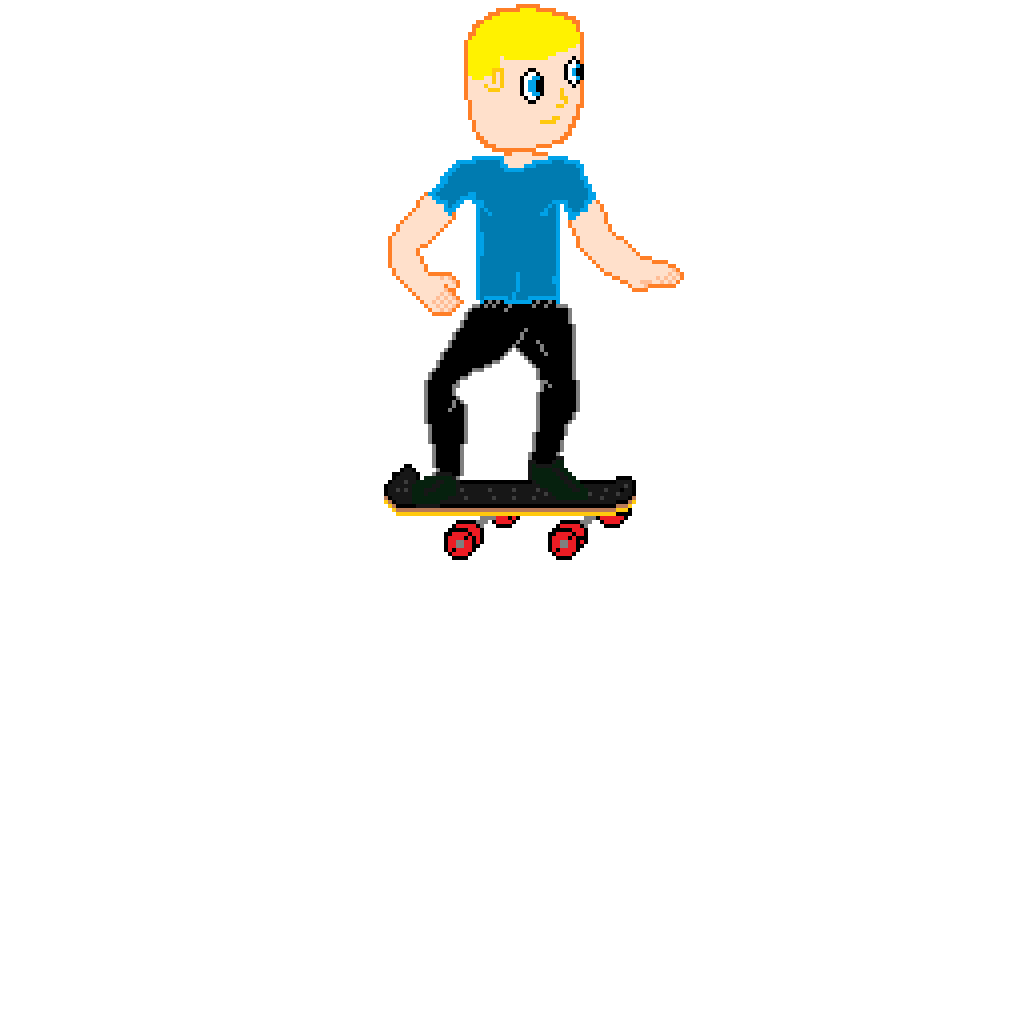
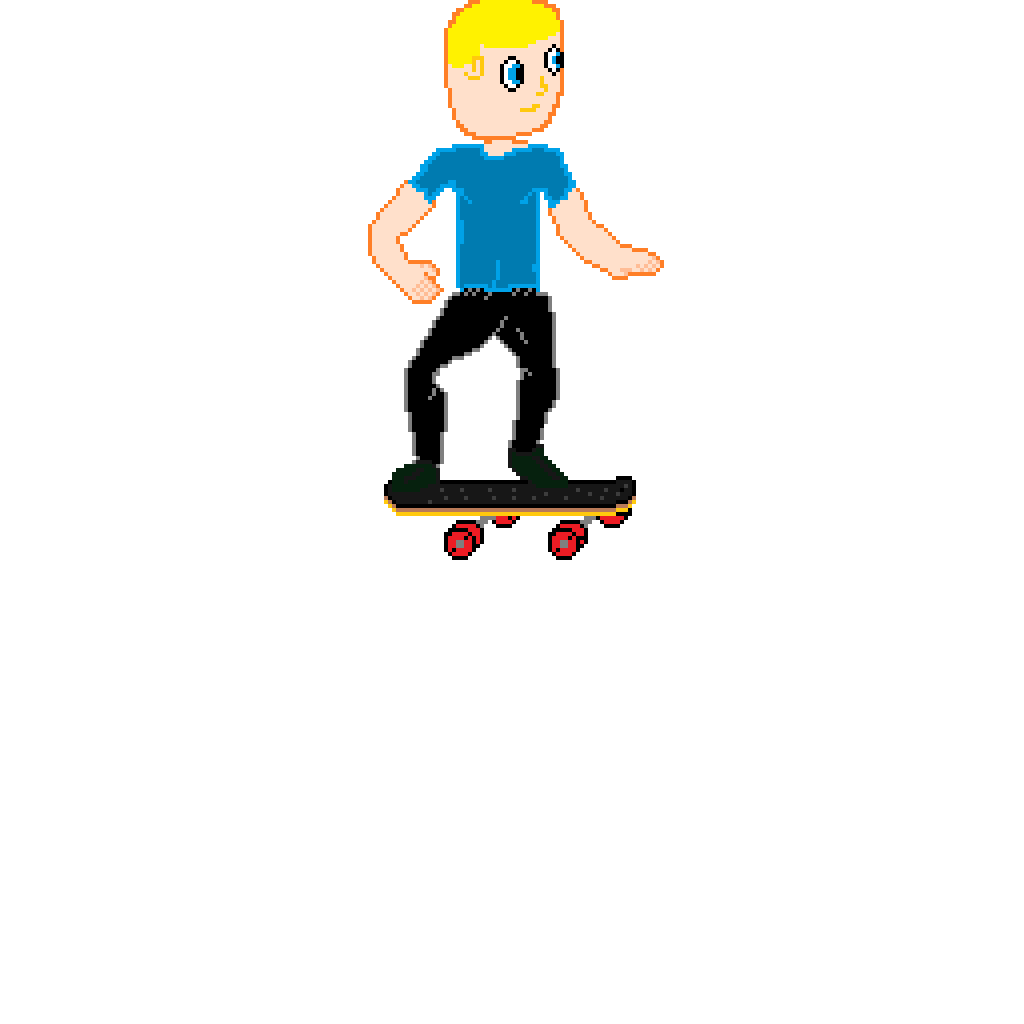
AnimationChanges

Changed region(s): [[0.3438, 0.0, 0.6875, 0.4688]]

diff --git a/src/Types/Personaje.ts b/src/Types/Personaje.ts
@@ -9,6 +9,8 @@ export class Skater extends PContainer implements IHitbox{
     AS_Run: AnimatedSprite;
     AS_Jump: AnimatedSprite;
     AS_Grind: AnimatedSprite;
+    AS_Fall: AnimatedSprite;
+    AS_Flip: AnimatedSprite;
 
     centered: boolean;
     hitbox:Graphics;
@@ -46,9 +48,25 @@ export class Skater extends PContainer implements IHitbox{
             Texture.from("SkateAnim10"),
         ], true);
 
+        this.AS_Fall = new AnimatedSprite([
+            Texture.from("SkateAnim12"),
+            Texture.from("SkateAnim13"),
+            Texture.from("SkateAnim13"),
+            Texture.from("SkateAnim13"),
+            Texture.from("SkateAnim13"),
+        ], true);
+
+        this.AS_Flip = new AnimatedSprite([
+            Texture.from("SkateAnim14"),
+            Texture.from("SkateAnim15"),
+            Texture.from("SkateAnim16"),
+            Texture.from("SkateAnim17"),
+            Texture.from("SkateAnim18"),
+        ], true);
+
         this.hitbox = new Graphics();
         this.hitbox.beginFill(0xFF00FF, SceneManager.showHitBox);
-        this.hitbox.drawRect(0,0,64,128);
+        this.hitbox.drawRect(8,96,64,32);
         this.hitbox.endFill();
         this.hitbox.x = -32;
         this.hitbox.y = -48;
@@ -74,6 +92,21 @@ export class Skater extends PContainer implements IHitbox{
         this.AS_Grind.animationSpeed = 0.25;
         this.AS_Grind.currentFrame = 0;
 
+        this.AS_Flip.loop = false;
+        this.AS_Flip.scale.set(0.25);
+        this.AS_Flip.anchor.x = 0.5;
+        this.AS_Flip.position.x = 5;
+        this.AS_Flip.position.y = -40;
+        this.AS_Flip.animationSpeed = 0.5;
+        //this.AS_Flip.currentFrame = 0;
+
+        this.AS_Fall.loop = false;
+        this.AS_Fall.scale.set(0.25);
+        this.AS_Fall.anchor.x = 0.5;
+        this.AS_Fall.position.x = 5;
+        this.AS_Fall.position.y = -40;
+        this.AS_Fall.animationSpeed = 0.05;
+
         this.addChild(this.AS_Run);
         this.addChild(this.hitbox);
 
@@ -84,6 +117,7 @@ export class Skater extends PContainer implements IHitbox{
         Keyboard.down.on("KeyD", this.onKeyD, this);
         Keyboard.up.on("KeyD", this.Reset, this);
         Keyboard.down.on("KeyE", this.onKeyE, this);
+        Keyboard.down.on("KeyQ", this.onKeyQ, this);
 
         //Atributos de juego init
         this.Score = score;
@@ -93,7 +127,7 @@ export class Skater extends PContainer implements IHitbox{
     public override update(deltaTime : number, _deltaFrame : number): void {        
         super.update(deltaTime, _deltaFrame);
 
-        console.log(this.Score.Timer);
+        //console.log(this.Score.Timer);
 
         //Atributos de juego update
         this.Score.Timer += deltaTime;
@@ -115,7 +149,6 @@ export class Skater extends PContainer implements IHitbox{
         if (this.position.x > SceneManager.WX || this.position.x < 16){
 
             if (this.position.x < 16) this.position.x = 17;
-
             this.centered = true;
         }
 
@@ -154,20 +187,46 @@ export class Skater extends PContainer implements IHitbox{
         this.AS_Grind.play();
         this.AS_Jump.play();
 
+        if (this.onFall){
+            this.speed.x = -0.1 ;
+            this.worldspeed = 0.3;
+            this.centered = false;
+            if (this.AS_Fall.currentFrame == 4){
+                this.reset = true;
+                this.onFall = false;
+            }
+            this.onGround = true;
+            this.removeChild(this.AS_Run);
+            this.removeChild(this.AS_Jump);
+            this.removeChild(this.AS_Grind);
+            this.removeChild(this.AS_Flip);
+            this.addChild(this.AS_Fall);
+            this.AS_Fall.play();
+        }
+        
+        if (this.onFlip){
+            
+            this.AS_Flip.play();
+            if (this.AS_Flip.currentFrame == 2 ){
+                this.onFlip = false;
+            }
+        }
+
         if ( this.speed.y > 0 && (this.JumpIn || this.JumpOut )){ //fix?
             this.AS_Jump.currentFrame = 1;
         }
 
-
-        if (this.onGround){ //Run
+        if (this.onGround && !this.onFall){ //Run
             this.removeChild(this.AS_Jump);
             this.removeChild(this.AS_Grind);
+            this.removeChild(this.AS_Flip);
             this.addChild(this.AS_Run);
         }
 
-        if (this.onPlat && !this.onGrind){ //RunOnPlat
+        if (this.onPlat && !this.onGrind && !this.onFall){ //RunOnPlat
             this.removeChild(this.AS_Jump);
             this.removeChild(this.AS_Grind);
+            this.removeChild(this.AS_Flip);
             this.addChild(this.AS_Run);
             this.scale.set(this.minScale);
         }
@@ -193,7 +252,7 @@ export class Skater extends PContainer implements IHitbox{
 
     private onKeyE():void{
 
-        if ( this.JumpIn || this.JumpOut){
+        if (this.JumpIn || this.JumpOut || !this.onFlip){
             //Physics
             this.speed.y = 0;
 
@@ -205,12 +264,23 @@ export class Skater extends PContainer implements IHitbox{
             //Animations
             this.removeChild(this.AS_Run);
             this.removeChild(this.AS_Jump);
+            this.removeChild(this.AS_Flip);
             this.addChild(this.AS_Grind);
+        }
+    }
+    private onKeyQ():void{
+        if (this.JumpIn || this.JumpOut){
+            this.onFlip = true;
+            this.AS_Flip.currentFrame = 0;
+            this.removeChild(this.AS_Run);
+            this.removeChild(this.AS_Jump);
+            this.removeChild(this.AS_Grind);
+            this.addChild(this.AS_Flip);
         }
     }
 
     private onJump():void{
-        if (this.onGround){
+        if (this.onGround && !this.onFlip){
             //Physics
             this.speed.y = -this.JumpSpeed - Math.abs((this.speed.x) * 0.5);
             this.position.y -= 5;
@@ -223,12 +293,13 @@ export class Skater extends PContainer implements IHitbox{
             this.AS_Jump.currentFrame = 0;
             this.removeChild(this.AS_Run);
             this.removeChild(this.AS_Grind);
+            this.removeChild(this.AS_Flip);
             this.addChild(this.AS_Jump);
 
             //Score
             this.Score.LastTrick = 1;
         }
-        if (this.onPlat){
+        if (this.onPlat && !this.onFlip){
             //Physics
             this.speed.y = -this.JumpSpeed - Math.abs((this.speed.x) * 0.5);
             this.position.y -= 5;
@@ -242,6 +313,7 @@ export class Skater extends PContainer implements IHitbox{
             this.AS_Jump.currentFrame = 0;
             this.removeChild(this.AS_Run);
             this.removeChild(this.AS_Grind);
+            this.removeChild(this.AS_Flip);
             this.addChild(this.AS_Jump);
 
             //Score
@@ -251,7 +323,7 @@ export class Skater extends PContainer implements IHitbox{
 
     public checkCollision(c:any, b:any):void{
         if ( c != null){
-            if (b.tipo != 2 && (this.JumpIn || this.JumpOut || this.onGrind || !this.onPlat)){
+            if (b.tipo != 2 && (this.JumpIn || this.JumpOut || this.onGrind || !this.onPlat || !this.onFall)){
                 if (this.speed.y > 0 && this.position.y < (b.position.y + c.height)){
                     //Physics
                     this.speed.y = 0;
@@ -263,10 +335,10 @@ export class Skater extends PContainer implements IHitbox{
                 }
             }
             if (b.tipo == 2 && !this.onGround){
-                this.reset = true;
+                this.onFall = true;
             }
             if (b.tipo == 3){
-                this.reset = true;
+                this.onFall = true;
             }
         }
     }

diff --git a/src/Scenes/MainScene.ts b/src/Scenes/MainScene.ts
@@ -2,7 +2,7 @@ import { Container, Texture, TilingSprite } from "pixi.js";
 import { Emitter, upgradeConfig } from "@pixi/particle-emitter";
 import { checkCollision } from "../Types/Interfaces/IHitbox";
 import { SceneBase } from "./SceneBase";
-import { SceneManager, music } from "./SceneManager";
+import { SceneManager } from "./SceneManager";
 import { Obstaculo } from "../Types/MapMaker";
 import { Score, Skater } from "../Types/Personaje";
 import { Banco } from "../Types/Banco";
@@ -12,9 +12,7 @@ import { BolaT } from "../Types/BolaTransito";
 import { Bicicletero } from "../Types/Bicicletero";
 
 import * as mosParticle from "../mosquitos.json";
-
-
-
+import { Sound } from "@pixi/sound";
 
 export class MainScene extends SceneBase{
 
@@ -33,9 +31,12 @@ export class MainScene extends SceneBase{
     contMoscos: Container;
     bancos: Obstaculo[];
     score: Score;
+    music: Sound;
 
-    constructor(score:Score){
+    constructor(score:Score, music:Sound){
         super();
+
+        this.music = music;
 
         this.score = score;
         //Constantes
@@ -126,26 +127,28 @@ export class MainScene extends SceneBase{
 
 
         //Sounds
-        if (music){
-            if (!music.isPlaying){
-                music.volume = 0.1;
-                music.play();
-                console.log(1);
-            }
-        }
     }
 
     public update(deltaTime : number, deltaFrame : number) : void{
 
         if (this.Skater1.reset){
             this.Skater1.reset = false;
-            SceneManager.changeScene(new MainScene(this.score));
+            this.score.Tries -= 1;
+            console.log(this.score.Tries);
+
+            if (this.score.Tries < 0){
+                this.music.stop();
+                SceneManager.end();
+                return;
+            }else{
+                SceneManager.changeScene(new MainScene(this.score, this.music));
+            }
         }
 
         //KillConditions
         if (this.Skater1.position.x > this.contMoscos.position.x -3 && this.Skater1.position.x < this.contMoscos.position.x +3){
             if(this.Skater1.position.y > this.contMoscos.position.y){
-                this.Skater1.reset = true;
+                this.Skater1.onFall = true;
             }
         }
 
@@ -170,6 +173,8 @@ export class MainScene extends SceneBase{
 
         //World and background
         //Building
+        if (this.Skater1.worldspeed < this.worldspeed) this.worldspeed = this.Skater1.worldspeed;
+
         this.bg0.tilePosition.x -= 0.005 * this.worldspeed * deltaTime;
         //Fondo
         this.bg1.tilePosition.x -= 0.75 * this.worldspeed * deltaTime;

diff --git a/src/index.ts b/src/index.ts
@@ -7,18 +7,23 @@ Assets.addBundle("Mosquito", assets);
 import { assets } from './assets';
 import { SceneManager } from './Scenes/SceneManager';
 import { Score } from './Types/Personaje';
+import { sound } from '@pixi/sound';
 
 
-Assets.load(["SkateAnim0", "SkateAnim1", "SkateAnim2", "SkateAnim3", "SkateAnim4", "SkateAnim5", "SkateAnim6", "SkateAnim7", "SkateAnim8", "SkateAnim9", "SkateAnim10", "SkateAnim11", "Mosco1", "Banco1", "Fuente1", "Pilar1", "Bicic1","Bola1", "Baldosas1", "Builds1", "Asfalto1", "Cesped1", "SantaFe1"]).then(()=>{
+Assets.load(["SkateAnim0", "SkateAnim1", "SkateAnim2", "SkateAnim3", "SkateAnim4", "SkateAnim5", "SkateAnim6", "SkateAnim7", "SkateAnim8", "SkateAnim9", "SkateAnim10", "SkateAnim11", "SkateAnim12", "SkateAnim13", "SkateAnim14", "SkateAnim15", "SkateAnim16", "SkateAnim17", "SkateAnim18", "Mosco1", "Banco1", "Fuente1", "Pilar1", "Bicic1","Bola1", "Baldosas1", "Builds1", "Asfalto1", "Cesped1", "SantaFe1"]).then(()=>{
 	
+	let music = sound.find("SantaFe1");
+	music.volume = 0.1;
+	music.play();
+
 	let  score = new Score();
-	const OMainScene : MainScene = new MainScene(score);
+	const OMainScene : MainScene = new MainScene(score, music);
 	
 	SceneManager.initialize();
 	SceneManager.changeScene(OMainScene);
 	Ticker.shared.add(function (deltaFrame){
 		SceneManager.update(Ticker.shared.deltaMS, deltaFrame);
 	})
-	
+
 });
 

diff --git a/src/Scenes/SceneManager.ts b/src/Scenes/SceneManager.ts
@@ -1,9 +1,6 @@
 import { Application, Ticker } from "pixi.js";
 import { Keyboard } from "../Types/Keyboard";
 import { SceneBase } from "./SceneBase";
-import { Sound, sound } from "@pixi/sound";
-
-export const music: Sound = sound.find("SantaFe1");
 
 export namespace SceneManager{
     let currentScene:SceneBase;
@@ -11,7 +8,7 @@ export namespace SceneManager{
 
     export const WX = 1280;
     export const WY = 720;
-    export const showHitBox = 0.5;
+    export const showHitBox = 0.01;
     
 
     export function initialize(){
@@ -62,6 +59,12 @@ export namespace SceneManager{
         }
         currentScene = newScene;
         app.stage.addChild(currentScene);
+    }
+
+    export function end(){
+        if(currentScene){
+            currentScene.destroy();
+        }
     }
 
     export function update(deltaFrame:number, _deltaTime:number ){

diff --git a/src/assets.ts b/src/assets.ts
@@ -25,6 +25,13 @@ export const assets = {
      SkateAnim9: "/SkaterSkate/Skater_Anim09.png",
      SkateAnim10: "/SkaterSkate/Skater_Anim10.png",
      SkateAnim11: "/SkaterSkate/Skater_Anim11.png",
+     SkateAnim12: "/SkaterSkate/Skater_Anim12.png",
+     SkateAnim13: "/SkaterSkate/Skater_Anim13.png",
+     SkateAnim14: "/SkaterSkate/Skater_Anim14.png",
+     SkateAnim15: "/SkaterSkate/Skater_Anim15.png",
+     SkateAnim16: "/SkaterSkate/Skater_Anim16.png",
+     SkateAnim17: "/SkaterSkate/Skater_Anim17.png",
+     SkateAnim18: "/SkaterSkate/Skater_Anim18.png",
  
      //UI
      UI_panel: "./UI/UI_panel.png",

diff --git a/src/Types/PContainer.ts b/src/Types/PContainer.ts
@@ -7,8 +7,11 @@ export class PContainer extends Container{
     public onGround : boolean = false;
     public onPlat : boolean = false;
     public onGrind : boolean = false;
+    public onFlip : boolean = false;
+    public onFall : boolean = false;
     public JumpIn : boolean = false;
     public JumpOut : boolean = false;
+    
 
     public update(deltaTime : number, _deltaFrame : number){
         this.x += this.speed.x * deltaTime + 1/2 * this.accel.x * deltaTime * deltaTime;

diff --git a/src/Types/Bicicletero.ts b/src/Types/Bicicletero.ts
@@ -15,7 +15,7 @@ export class Bicicletero extends Obstaculo{
         this.addChild(this.Visual);
 
         this.hitbox.beginFill(0xFF00FF, SceneManager.showHitBox);
-        this.hitbox.drawRect(32,-20,30,20);
+        this.hitbox.drawRect(64,-20,30,20);
         this.hitbox.endFill();
         this.hitbox.x = -96;
         this.hitbox.y = -8;
